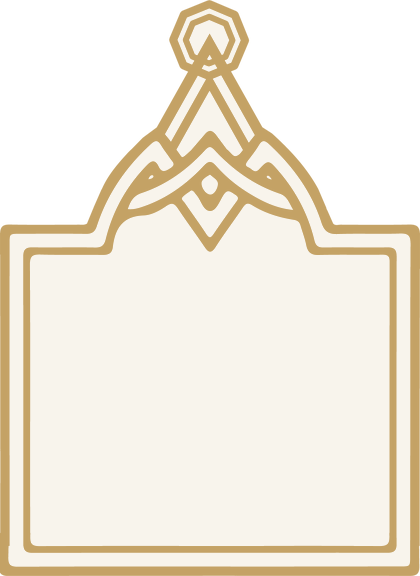
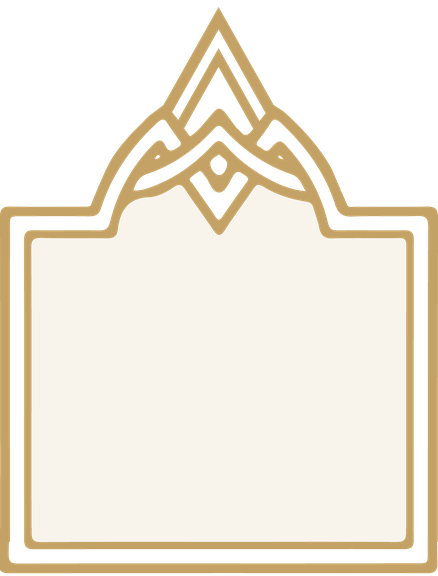
fix(quran): refine hizb page marker

Changed region(s): [[0.0, 0.0, 1.0, 0.5], [0.0, 0.9375, 1.0, 1.0]]

diff --git a/src/components/quran/HizbMedallion.tsx b/src/components/quran/HizbMedallion.tsx
@@ -3,18 +3,24 @@ import { Image, Text, View } from "react-native";
 import { OrnamentPanel, QURAN_FONT_FAMILY, quranBodyInk, toHafsDigits } from "@/constants/Quran";
 import { MushafVersion, OrnamentAsset, OrnamentCategory, QuranThemeType } from "@/enums/quran";
 import { resolveOrnamentImage } from "@/utils/quranOrnaments";
-import { rubLabel, rubMarkParts } from "@/utils/juz";
+import { rubForHizbQuarter, rubLabel, rubMarkParts } from "@/utils/juz";
 
-// Three stacked lines as a printed mushaf sets them — quarter word, «الحزب»,
-// then the hizb number — as fractions of the open panel's height. Keying them to
-// the panel rather than the whole art keeps the same fill whatever frame a pack
-// ships, since every pack measures its panel into pack.json.
-const QUARTER_RATIO = 0.24;
-const WORD_RATIO = 0.33;
-const NUMBER_RATIO = 0.33;
-// The mushaf font's metrics are tall; explicit line heights keep the stack tight
-// inside the panel instead of letting it spread past the art.
-const LINE_TIGHTNESS = 1.08;
+type LabelSlot = { top: number; height: number; font: number };
+
+// Fixed slots prevent one line's font metrics from pushing another into the
+// frame. Fractions are relative to the text-safe panel measured in pack.json.
+const THREE_LINE_SLOTS = {
+  quarter: { top: 0, height: 0.31, font: 0.29 },
+  word: { top: 0.31, height: 0.32, font: 0.3 },
+  number: { top: 0.63, height: 0.37, font: 0.36 },
+} as const satisfies Record<string, LabelSlot>;
+const TWO_LINE_SLOTS = {
+  word: { top: 0.15, height: 0.38, font: 0.34 },
+  number: { top: 0.53, height: 0.42, font: 0.4 },
+} as const satisfies Record<string, LabelSlot>;
+const LINE_HEIGHT_MULTIPLIER = 1.05;
+const THREE_QUARTERS_FONT_SCALE = 0.9;
+const THREE_QUARTERS_VERTICAL_OFFSET = 0.045;
 
 // Plaque marking the rub (hizb quarter) a page opens, its localized label drawn
 // in the art's open panel. Pointer-transparent; the caller places it.
@@ -45,6 +51,7 @@ const HizbMedallion = ({
 
   const label = rubLabel(rub);
   const { quarter, word, hizb } = rubMarkParts(rub);
+  const { quarter: quarterIndex } = rubForHizbQuarter(rub);
   const typeStyle = {
     fontFamily: QURAN_FONT_FAMILY,
     color: quranBodyInk(quranTheme),
@@ -54,10 +61,23 @@ const HizbMedallion = ({
     includeFontPadding: false,
   };
   const panelHeight = height * ((panel?.b ?? 1) - (panel?.t ?? 0));
-  const lineStyle = (ratio: number) => ({
-    fontSize: panelHeight * ratio,
-    lineHeight: panelHeight * ratio * LINE_TIGHTNESS,
+  const slotStyle = (slot: LabelSlot) => ({
+    position: "absolute" as const,
+    left: 0,
+    right: 0,
+    top: panelHeight * slot.top,
+    height: panelHeight * slot.height,
+    alignItems: "center" as const,
+    justifyContent: "center" as const,
   });
+  const lineStyle = (slot: LabelSlot, fontScale = 1) => ({
+    width: "100%" as const,
+    fontSize: panelHeight * slot.font * fontScale,
+    lineHeight: panelHeight * slot.font * fontScale * LINE_HEIGHT_MULTIPLIER,
+  });
+  const wordSlot = quarter ? THREE_LINE_SLOTS.word : TWO_LINE_SLOTS.word;
+  const numberSlot = quarter ? THREE_LINE_SLOTS.number : TWO_LINE_SLOTS.number;
+  const quarterOffset = quarterIndex === 3 ? panelHeight * THREE_QUARTERS_VERTICAL_OFFSET : 0;
 
   // panel l/t are start fractions and r/b END fractions, so the right/bottom
   // insets are the remainders past the panel's end.
@@ -81,32 +101,48 @@ const HizbMedallion = ({
       {/* The tint is baked into the art's whole silhouette, so there is no fill
           rect here. */}
       <Image source={source} style={{ width, height }} resizeMode="contain" fadeDuration={0} />
-      <View style={{ ...panelBox, alignItems: "center", justifyContent: "center" }}>
+      <View style={panelBox}>
         {/* allowFontScaling is off because the art can't grow with the OS font
             size — the type shrinks to the panel instead. Only the quarter line
             refits: it is the one that varies in length («ثلاث ارباع»). */}
         {quarter ? (
+          <View
+            style={{
+              ...slotStyle(THREE_LINE_SLOTS.quarter),
+              transform: [{ translateY: quarterOffset }],
+            }}>
+            <Text
+              numberOfLines={1}
+              adjustsFontSizeToFit
+              minimumFontScale={0.6}
+              allowFontScaling={false}
+              style={{
+                ...typeStyle,
+                ...lineStyle(
+                  THREE_LINE_SLOTS.quarter,
+                  quarterIndex === 3 ? THREE_QUARTERS_FONT_SCALE : 1
+                ),
+              }}>
+              {quarter}
+            </Text>
+          </View>
+        ) : null}
+        <View style={slotStyle(wordSlot)}>
           <Text
             numberOfLines={1}
-            adjustsFontSizeToFit
-            minimumFontScale={0.6}
             allowFontScaling={false}
-            style={{ ...typeStyle, ...lineStyle(QUARTER_RATIO) }}>
-            {quarter}
+            style={{ ...typeStyle, ...lineStyle(wordSlot) }}>
+            {word}
           </Text>
-        ) : null}
-        <Text
-          numberOfLines={1}
-          allowFontScaling={false}
-          style={{ ...typeStyle, ...lineStyle(WORD_RATIO) }}>
-          {word}
-        </Text>
-        <Text
-          numberOfLines={1}
-          allowFontScaling={false}
-          style={{ ...typeStyle, ...lineStyle(NUMBER_RATIO) }}>
-          {toHafsDigits(hizb)}
-        </Text>
+        </View>
+        <View style={slotStyle(numberSlot)}>
+          <Text
+            numberOfLines={1}
+            allowFontScaling={false}
+            style={{ ...typeStyle, ...lineStyle(numberSlot) }}>
+            {toHafsDigits(hizb)}
+          </Text>
+        </View>
       </View>
     </View>
   );

diff --git a/src/components/quran/PageNumber.tsx b/src/components/quran/PageNumber.tsx
@@ -86,6 +86,9 @@ const PageNumber = ({ page, quranTheme, version, rub, side, clearance }: PageNum
     useQuranStore((s) => s.ornamentMeta[OrnamentCategory.PAGE_HOLDER]) ??
     BUNDLED_ORNAMENT_META[OrnamentCategory.PAGE_HOLDER];
   const holderAssetMeta = holderMeta.assets[OrnamentAsset.CARTOUCHE];
+  const hizbAssetMeta =
+    holderMeta.assets[OrnamentAsset.HIZB] ??
+    BUNDLED_ORNAMENT_META[OrnamentCategory.PAGE_HOLDER].assets[OrnamentAsset.HIZB];
   const holderPresent = holderAssetMeta !== undefined;
   const holderWidth = HOLDER_HEIGHT * (holderAssetMeta?.aspect ?? 3.24);
   const source = resolveOrnamentImage(
@@ -110,6 +113,16 @@ const PageNumber = ({ page, quranTheme, version, rub, side, clearance }: PageNum
       : Math.min(
           HIZB_TOP_MAX,
           Math.max(HIZB_TOP_MIN, FOOTER_PAD_TOP + HOLDER_HEIGHT + clearance - HIZB_INK_GAP)
+        );
+  const hizbPanelCenter = ((hizbAssetMeta?.panel?.t ?? 0) + (hizbAssetMeta?.panel?.b ?? 1)) / 2;
+  // On hizb pages, align the cartouche with the plaque's usable inner panel,
+  // while keeping the downward shift inside the available safe-area space.
+  const pageNumberDrop =
+    rub == null
+      ? 0
+      : Math.min(
+          hizbDrop,
+          Math.max(0, HOLDER_HEIGHT / 2 + hizbDrop - (hizbTop + hizbDrop) * (1 - hizbPanelCenter))
         );
 
   return (
@@ -137,7 +150,11 @@ const PageNumber = ({ page, quranTheme, version, rub, side, clearance }: PageNum
       ) : null}
       {holderPresent ? (
         <View
-          style={{ width: holderWidth, height: HOLDER_HEIGHT }}
+          style={{
+            width: holderWidth,
+            height: HOLDER_HEIGHT,
+            transform: [{ translateY: pageNumberDrop }],
+          }}
           accessibilityLabel={t("a11y.quran.page", { page })}>
           <View
             pointerEvents="none"
@@ -182,6 +199,7 @@ const PageNumber = ({ page, quranTheme, version, rub, side, clearance }: PageNum
             fontFamily: QURAN_FONT_FAMILY,
             writingDirection: "rtl",
             fontSize: 19,
+            transform: [{ translateY: pageNumberDrop }],
           }}
           accessibilityLabel={t("a11y.quran.page", { page })}>
           {toHafsDigits(page)}

diff --git a/src/constants/Quran.ts b/src/constants/Quran.ts
@@ -269,8 +269,8 @@ export const BUNDLED_ORNAMENT_META: Record<OrnamentCategory, OrnamentPackMeta> =
     assets: {
       [OrnamentAsset.CARTOUCHE]: { aspect: 3.2397 },
       [OrnamentAsset.HIZB]: {
-        aspect: 0.7292,
-        panel: { l: 0.0738, t: 0.4375, r: 0.9262, b: 0.9479 },
+        aspect: 0.7604,
+        panel: { l: 0.0715, t: 0.4077, r: 0.9277, b: 0.9408 },
       },
     },
   },
